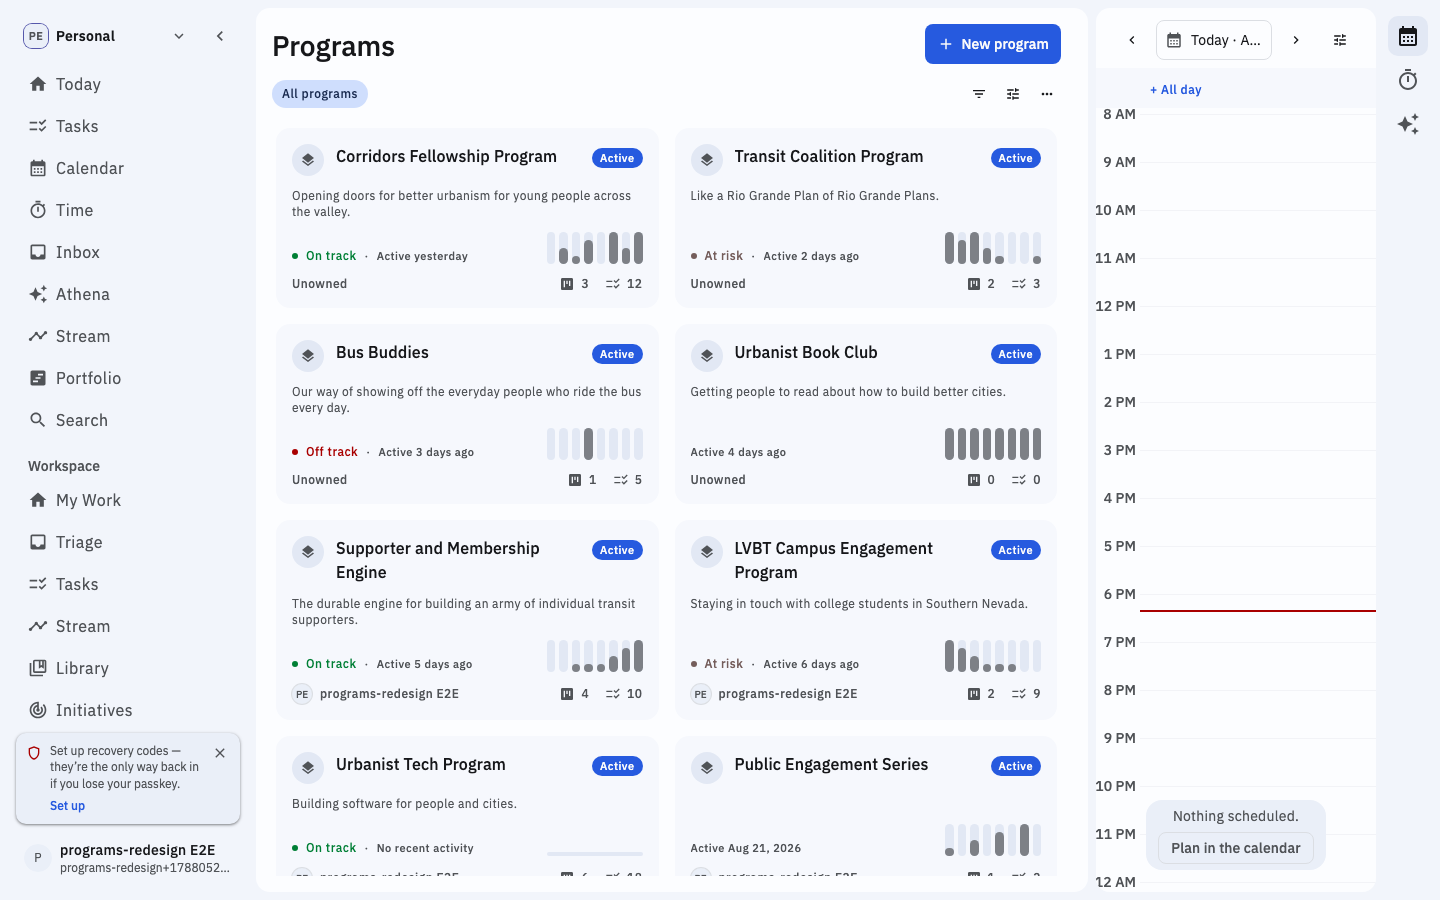
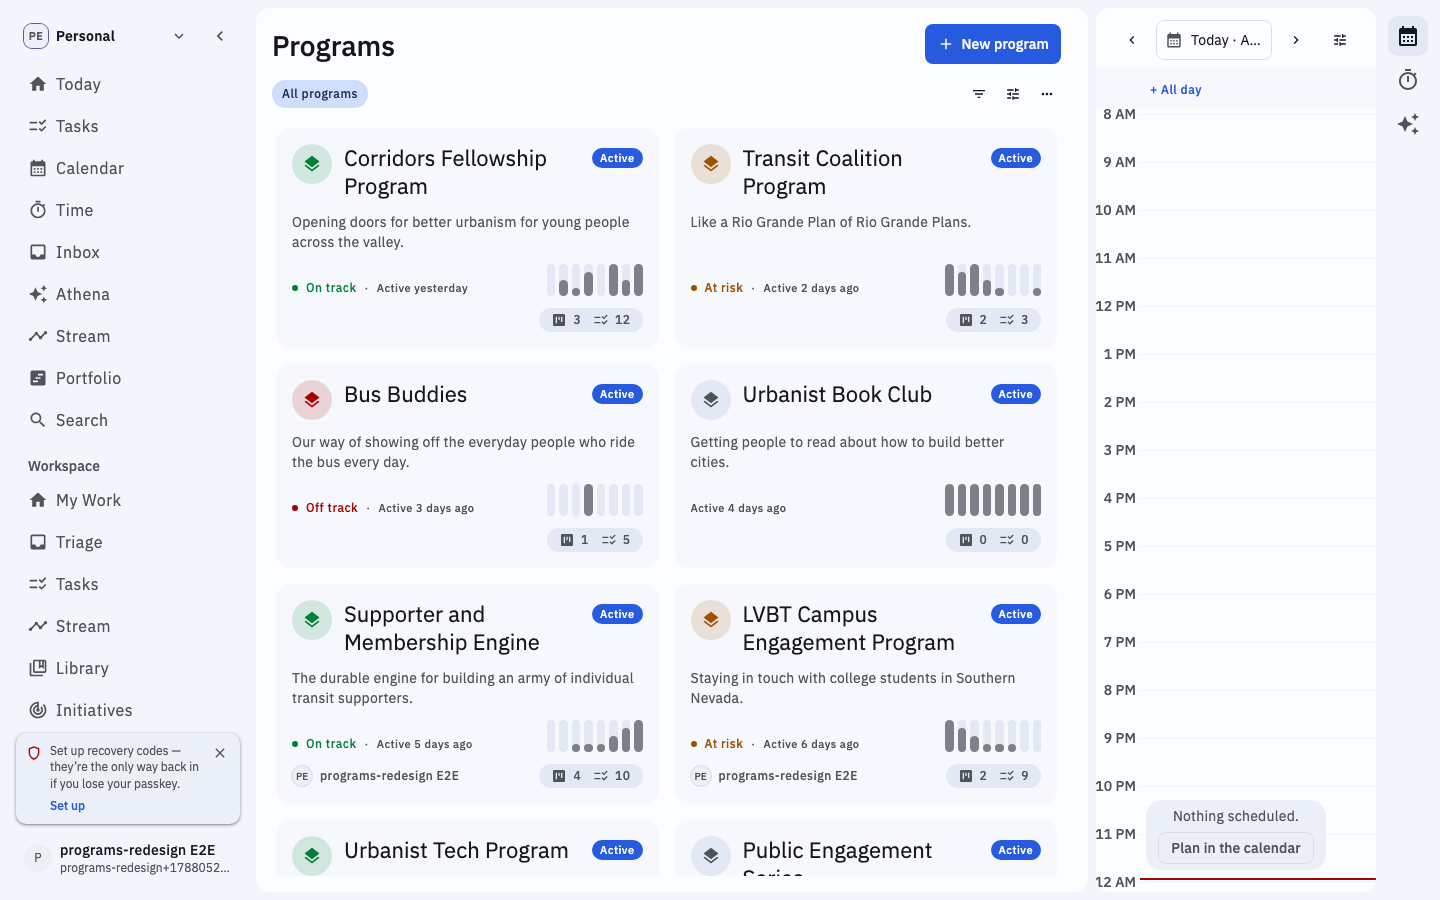
fix(design): Tell the three health values apart at a glance
`at_risk` borrowed `--state-canceled`, which is a near-grey at chroma
0.03 because cancelled work is meant to recede. That is the opposite of
what "at risk" has to do. Sitting between a chroma-0.15 green and a
chroma-0.2 red, the one value worth catching early was the hardest of
the three to see, in both themes, on every surface that shows health.

It gets its own token, so cancelled work keeps its grey. `oklch(0.52
0.14 62)` in light and `oklch(0.79 0.14 75)` in dark: chroma raised to
sit in the same register as the green and the red, hue moved to amber,
and lightness matched to `--state-completed` so it clears AA on the
light surface ramp.

Contrast was measured in the running app rather than derived. The three
labels come back at 4.84:1, 5.38:1 and 7.36:1 against the card in light,
and 9.43:1, 9.07:1 and 6.18:1 in dark, so all six clear AA with room.

Because health reads from one module now, this reaches everything at
once: the Programs card and its tinted identity mark, both work-view
rosters, the Initiative distribution bar and roadmap, the canvas nodes
and peek, the health picker, and the updates composer.

This was the finding the Programs scorecard left open pending a
decision, so the scorecard records it as fixed and its screenshots are
recaptured.

diff --git a/apps/web/src/components/entity-display/health.tsx b/apps/web/src/components/entity-display/health.tsx
@@ -29,12 +29,14 @@ export const HEALTH_LABEL: Record<Health, string> = {
  * The solid colour for each value — a dot, a swatch, or a distribution segment.
  *
  * @remarks
- * `on_track` borrows the calm green `completed` state token, `at_risk` the amber `canceled` token,
- * and `off_track` the `error` role, so health resolves in both themes without a raw value.
+ * `on_track` borrows the calm green `completed` state token and `off_track` the `error` role.
+ * `at_risk` has a token of its own: it used to borrow `canceled`, a near-grey chosen so that
+ * cancelled work recedes, which left the one value worth catching early as the hardest of the
+ * three to see.
  */
 export const HEALTH_FILL_CLASS: Record<Health, string> = {
   on_track: 'bg-state-completed',
-  at_risk: 'bg-state-canceled',
+  at_risk: 'bg-health-at-risk',
   off_track: 'bg-error',
 };
 
@@ -49,7 +51,7 @@ export const HEALTH_FILL_CLASS: Record<Health, string> = {
  */
 export const HEALTH_GLYPH_CLASS: Record<Health, string> = {
   on_track: 'bg-state-completed/15 text-state-completed',
-  at_risk: 'bg-state-canceled/15 text-state-canceled',
+  at_risk: 'bg-health-at-risk/15 text-health-at-risk',
   off_track: 'bg-error/15 text-error',
 };
 
@@ -62,7 +64,7 @@ export const HEALTH_UNKNOWN_LABEL = 'No health data';
 /** The label colour paired with each {@link HEALTH_FILL_CLASS} fill. */
 const HEALTH_TEXT_CLASS: Record<Health, string> = {
   on_track: 'text-state-completed',
-  at_risk: 'text-state-canceled',
+  at_risk: 'text-health-at-risk',
   off_track: 'text-error',
 };
 

diff --git a/packages/ui/src/styles/globals.css b/packages/ui/src/styles/globals.css
@@ -124,6 +124,17 @@
   --state-canceled: oklch(0.5 0.03 25);
 
   /*
+   * Health's middle value.
+   *
+   * `at_risk` used to borrow `--state-canceled`, which is a near-grey (chroma 0.03) because
+   * cancelled work should recede. That is the opposite of what "at risk" needs to do: it is the
+   * one health value worth catching early, and it was the hardest of the three to see, sitting
+   * between a chroma-0.15 green and a chroma-0.2 red. This is its own token so cancelled work can
+   * stay grey. Lightness matches `--state-completed` so it clears AA on the light surface ramp.
+   */
+  --health-at-risk: oklch(0.52 0.14 62);
+
+  /*
    * Label palette (light). Ten hues, each in three roles.
    *
    * A label's stored `color` is one of these keys, never a hex — a single fixed value cannot
@@ -299,6 +310,7 @@
     --state-started: oklch(0.78 0.13 250);
     --state-completed: oklch(0.78 0.14 150);
     --state-canceled: oklch(0.72 0.03 25);
+    --health-at-risk: oklch(0.79 0.14 75);
 
     /*
      * Label palette (dark). Same ten keys, re-tuned rather than re-derived: dots brighten to
@@ -417,6 +429,7 @@
   --color-state-started: var(--state-started);
   --color-state-completed: var(--state-completed);
   --color-state-canceled: var(--state-canceled);
+  --color-health-at-risk: var(--health-at-risk);
 
   /*
    * MD3 tonal surface utilities. These expose `bg-surface`, `bg-surface-container`,

diff --git a/docs/design/audits/2026-08-29-programs-cards.md b/docs/design/audits/2026-08-29-programs-cards.md
@@ -34,16 +34,16 @@ Screenshots are in `screenshots/2026-08-29-programs-cards/`: `desktop-{light,dar
 response, because every record in a dev workspace is new and every real window is empty. The
 component and its data contract are the shipped ones; only the eight weekly counts stand in.
 
-| Dimension                           | Score | Evidence                                                                                                                                                                                                                                               |
-| ----------------------------------- | ----: | ------------------------------------------------------------------------------------------------------------------------------------------------------------------------------------------------------------------------------------------------------ |
-| 1. Brand identity and voice         |     3 | Calm MD3 surfaces with one blue status pill and a tinted identity mark. Copy states a condition — "On track · Active yesterday" — rather than labelling fields. Nothing here reads as a generic SaaS card grid.                                        |
-| 2. Typographic craft                |     4 | Three registers doing three jobs: `title-large` name, `body-medium` summary, `label-medium`/`label-small` metadata. Before this pass everything under the title sat at 11–12px, which is most of what "bland" meant. No raw type utilities remain.     |
-| 3. Spatial rhythm and density       |     3 | One `gap-3` rhythm inside a single `p-4` inset, with the signal and roll-up bands bottom-anchored so they align across a row. `card-styles.ts` holds the inset, minimum height, and grid so the frame and skeleton cannot disagree again.              |
-| 4. Hierarchy and information design |     4 | Health is now the largest coloured thing on the card, so "which of these needs me?" is answered at a squint before a word is read — see the green/brown/red/neutral column in `desktop-light.png`. Name, summary, signal, roll-up, in that order.      |
-| 5. Colour discipline                |     4 | Health is the only earned colour, spent twice on the same fact (the mark's tint and its label) rather than on two different facts. The histogram dropped from `primary/45` to `outline`; nothing decorative is coloured.                               |
-| 6. Motion and feedback              |     3 | Hover moves the card one full step up the surface ramp with the roll-up container moving with it (`hover-light.png`); focus draws the shared ring on the card's own radius (`focus-light.png`). Both are colour-only — no geometry moves.              |
-| 7. States completeness              |     3 | Loading is built from the card's own parts, so the grid does not resize on resolve (`loading-light.png`). A 90-character name truncates at two lines with a `title` tooltip (`overflow-long-title-light.png`). Nothing renders where nothing is known. |
-| 8. Detail craft                     |     3 | At 200% the histogram sits on the text baseline, roll-up numerals align in their container, and the checkbox lands centred on the 40px mark it replaces. No horizontal overflow at 320px (`w320-light.png`, probe returns false).                      |
+| Dimension                           | Score | Evidence                                                                                                                                                                                                                                                    |
+| ----------------------------------- | ----: | ----------------------------------------------------------------------------------------------------------------------------------------------------------------------------------------------------------------------------------------------------------- |
+| 1. Brand identity and voice         |     3 | Calm MD3 surfaces with one blue status pill and a tinted identity mark. Copy states a condition — "On track · Active yesterday" — rather than labelling fields. Nothing here reads as a generic SaaS card grid.                                             |
+| 2. Typographic craft                |     4 | Three registers doing three jobs: `title-large` name, `body-medium` summary, `label-medium`/`label-small` metadata. Before this pass everything under the title sat at 11–12px, which is most of what "bland" meant. No raw type utilities remain.          |
+| 3. Spatial rhythm and density       |     3 | One `gap-3` rhythm inside a single `p-4` inset, with the signal and roll-up bands bottom-anchored so they align across a row. `card-styles.ts` holds the inset, minimum height, and grid so the frame and skeleton cannot disagree again.                   |
+| 4. Hierarchy and information design |     4 | Health is now the largest coloured thing on the card, so "which of these needs me?" is answered at a squint before a word is read — see the green/amber/red/neutral column in `desktop-light.png`. Name, summary, signal, roll-up, in that order.           |
+| 5. Colour discipline                |     4 | Health is the only earned colour, spent twice on the same fact (the mark's tint and its label) rather than on two different facts. The histogram dropped from `primary/45` to `outline`, and `at_risk` gained its own token so all three values read apart. |
+| 6. Motion and feedback              |     3 | Hover moves the card one full step up the surface ramp with the roll-up container moving with it (`hover-light.png`); focus draws the shared ring on the card's own radius (`focus-light.png`). Both are colour-only — no geometry moves.                   |
+| 7. States completeness              |     3 | Loading is built from the card's own parts, so the grid does not resize on resolve (`loading-light.png`). A 90-character name truncates at two lines with a `title` tooltip (`overflow-long-title-light.png`). Nothing renders where nothing is known.      |
+| 8. Detail craft                     |     3 | At 200% the histogram sits on the text baseline, roll-up numerals align in their container, and the checkbox lands centred on the 40px mark it replaces. No horizontal overflow at 320px (`w320-light.png`, probe returns false).                           |
 
 Gates: A11y ✅ · Responsive ✅ · Theme parity ✅ · No placeholder ✅ · Screenshot-verified ✅
 
@@ -72,12 +72,15 @@ that had no owner, and the em dash under every card with no health set.
 
 ## Findings
 
-1. **"At risk" is nearly colourless.** `--state-canceled` is `oklch(0.5 0.03 25)` — chroma 0.03, a
-   near-grey, correct for cancelled work and wrong for a warning. On track (chroma 0.15) and off
-   track both read instantly; the middle value, the one worth catching early, reads as beige in
-   both themes. All four health modules borrow this token, so the fix is a `--health-at-risk` token
-   in `globals.css` and a change to the health palette product-wide — a decision worth making
-   deliberately rather than inside a card redesign. **Not fixed; needs a call.**
+1. **"At risk" was nearly colourless.** It borrowed `--state-canceled`, `oklch(0.5 0.03 25)` —
+   chroma 0.03, a near-grey, correct for cancelled work and wrong for a warning. On track (chroma
+   0.15) and off track both read instantly; the middle value, the one worth catching early, read as
+   beige in both themes. **Fixed:** `--health-at-risk` is its own token (`oklch(0.52 0.14 62)` light,
+   `oklch(0.79 0.14 75)` dark), so cancelled work keeps its grey. Lightness matches
+   `--state-completed`, and the three labels measure 4.84:1, 5.38:1 and 7.36:1 against the card in
+   light and 9.43:1, 9.07:1 and 6.18:1 in dark — every one clears AA. Every surface reading
+   `entity-display/health` gets it: the Programs card, both rosters, the Initiative distribution bar
+   and roadmap, the canvas nodes, the pickers, and the updates composer.
 2. **The status pill is the loudest mark and the least informative one.** Every Program in a normal
    workspace is active, so nine identical filled blue pills carry no differentiating information
    while sitting at the top of the colour hierarchy. `WorkStatusBadge` fills only the `started`
@@ -94,9 +97,9 @@ that had no owner, and the em dash under every card with no health set.
 
 ## Verdict
 
-**SHIP.** Every dimension is at or above the bar and all five gates are green. Finding 1 is the one
-worth acting on next, and it is a product-wide palette decision rather than a defect in this
-surface.
+**SHIP.** Every dimension is at or above the bar and all five gates are green. Finding 1 was the
+one worth acting on next and has since been fixed; findings 2 to 4 stay open and are recorded
+above with why.
 
 ## Follow-ups
 

diff --git a/docs/WORKLOG.md b/docs/WORKLOG.md
@@ -7555,6 +7555,34 @@ identity-providers}.ts(x)` + `packages/ui/src/icons/index.ts` (badge, Source opt
 
   `.env.local` points at a file-backed PGlite database shared by the dev stack and the API test
   suite, so seeding a dev account for screenshots corrupts test runs until `pnpm db:reset`.
+
+### [HEALTH-AT-RISK-004] Give the middle health value a colour of its own
+
+- **Completed**: 2026-08-30
+- **Summary**: `at_risk` borrowed `--state-canceled`, a near-grey, so the one health value worth
+  catching early was the hardest of the three to see. It now has `--health-at-risk`, and every
+  surface reading `entity-display/health` picks it up.
+- **Approach**: The grey was correct for what it was named after — cancelled work should recede —
+  and wrong for a warning, so the fix was a new token rather than a change to the existing one.
+  `oklch(0.52 0.14 62)` in light and `oklch(0.79 0.14 75)` in dark: chroma 0.14 to sit in the same
+  register as `--state-completed` (0.15) and `--error` (0.2) instead of 0.03, and lightness matched
+  to `--state-completed` so it clears AA on the light surface ramp.
+- **Files changed**: `packages/ui/src/styles/globals.css` (both themes plus the `@theme inline`
+  mapping), `apps/web/src/components/entity-display/health.tsx` (fill, glyph tint, and label colour).
+- **Validation**: Root typecheck, lint, and format pass; `pnpm test` passes 25 of 26 tasks with
+  `@docket/api`'s 19 pre-existing failures unchanged, and the design-token ledger holds at 618.
+  Contrast was measured in the running app rather than derived: the three labels come back at
+  4.84:1, 5.38:1 and 7.36:1 against the card in light, and 9.43:1, 9.07:1 and 6.18:1 in dark, so
+  all six clear AA. Programs, Projects, and Initiatives were re-captured at both widths and themes.
+- **Learnings**: A contrast probe that reads `getComputedStyle().color` gets `oklch(...)` back in
+  Chromium, and parsing those three numbers as RGB reports a confident 1.00:1. Painting the value
+  into a 1×1 canvas and reading the pixel is what actually resolves it to sRGB. Separately, an
+  `evaluate` callback written as a TypeScript arrow function fails in the page with
+  `__name is not defined` — tsx's transform injects a helper the browser has never seen; pass the
+  body as a string.
+
+---
+
 ### [WORK-VIEW-DEBT-003] Collapse the duplicated roster presentation
 
 - **Completed**: 2026-08-29
